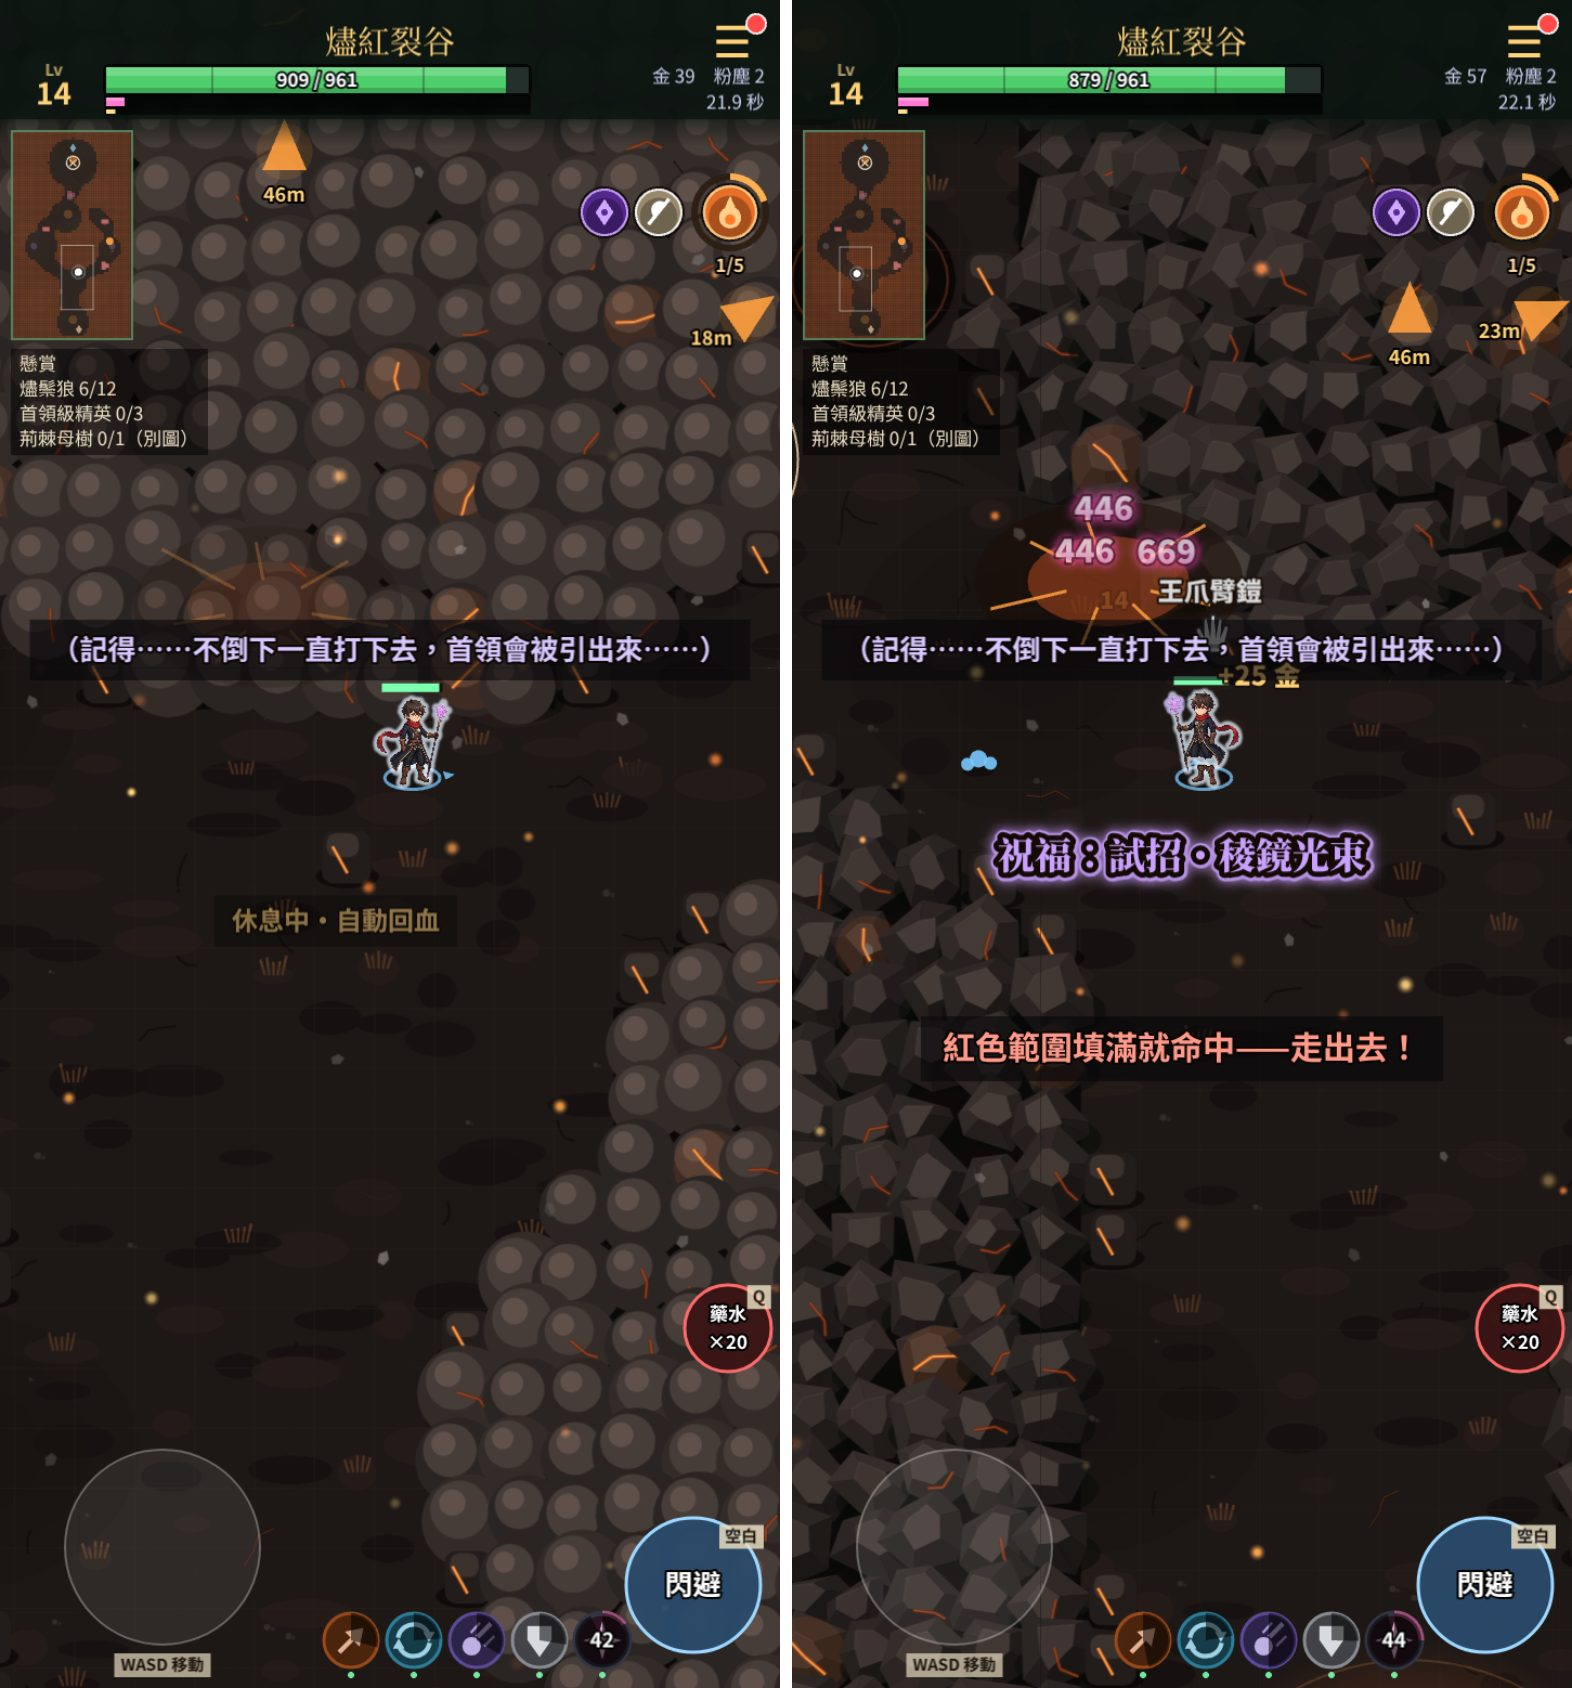
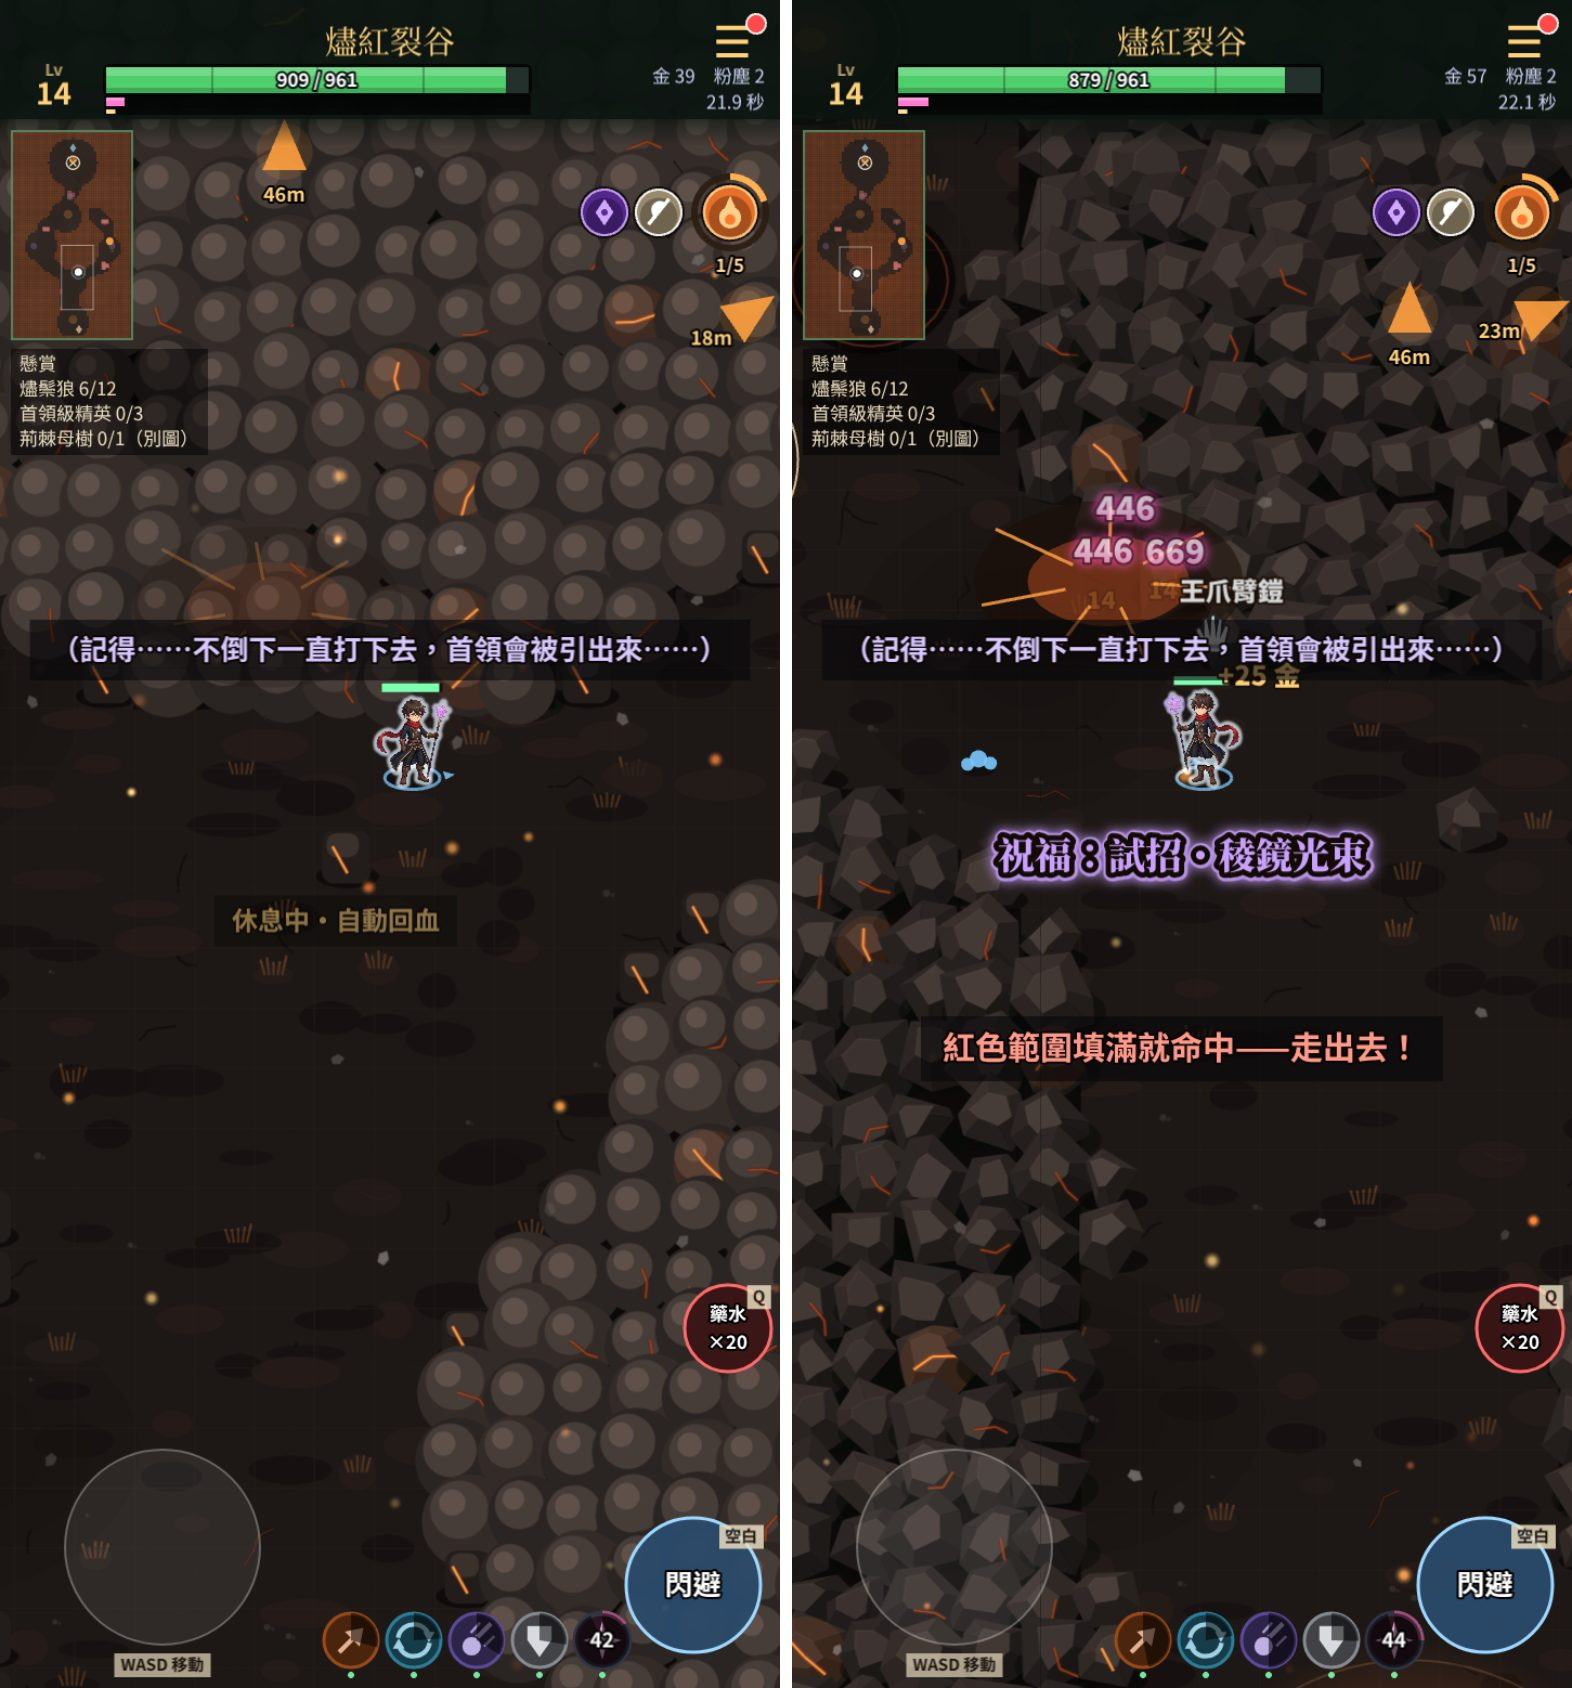
燼紅裂谷零星的岩塊也換成有稜角的岩石：以前是圓角方形＋每顆一道亮橘斜線，像一顆顆按鈕
和岩壁用同一個 emberRock；只有四成帶裂紋、其中少數是亮的。純地面材質，碰撞格沒動。對照圖更新。

Claude-Session: https://claude.ai/code/session_01DgXGTuMTgFUxpVKL6tWftS

diff --git a/src/game/rt/ground.ts b/src/game/rt/ground.ts
@@ -383,12 +383,26 @@ export function makeGround(scene: Phaser.Scene, s: BattleState, stageId: string,
           continue;
         }
         if (ember) {
-          // 燼岩的零星岩柱：黑色玄武岩＋一道熔岩裂紋（不長青苔）
-          g.fillStyle(0x050303, 0.6).fillEllipse(x + c * 0.55, y + c * 0.8, c * 1.05, c * 0.4);
-          g.fillStyle(0x221c1a, 1).fillRoundedRect(x + c * (0.06 + j), y + c * 0.04, c * (0.88 - j), c * 0.88, c * 0.2);
-          g.fillStyle(0x3a302c, 1).fillRoundedRect(x + c * (0.14 + j), y + c * 0.08, c * (0.6 - j), c * 0.4, c * 0.16);
-          g.lineStyle(4, 0xc8401a, 0.6).lineBetween(x + c * 0.3, y + c * 0.3, x + c * 0.55, y + c * 0.75);
-          g.lineStyle(2, 0xffb04a, 0.95).lineBetween(x + c * 0.3, y + c * 0.3, x + c * 0.55, y + c * 0.75);
+          // 燼岩的零星岩塊（第 196 輪改）：以前是一塊圓角方形＋每顆都有一道亮橘斜線，像一顆顆按鈕；現在和岩壁同一種有稜角的岩塊，只有一部分帶裂紋
+          const mx = x + c * 0.5;
+          const my = y + c * 0.46;
+          const r = c * (0.5 + j);
+          const rk = emberRock((i) => hr(cx, cy, 50 + i));
+          const poly = (pts: number[]): Phaser.Math.Vector2[] => {
+            const out: Phaser.Math.Vector2[] = [];
+            for (let t = 0; t < pts.length; t += 2) out.push(new Phaser.Math.Vector2(mx + pts[t]! * r, my + pts[t + 1]! * r));
+            return out;
+          };
+          g.fillStyle(0x050303, 0.6).fillEllipse(x + c * 0.56, y + c * 0.84, c * 1.15, c * 0.42);
+          for (const f of rk.sides) g.fillStyle(tone(P.crownB, f.tone), 1).fillPoints(poly(f.pts), true);
+          g.fillStyle(tone(P.crownHi, rk.top.tone + 0.08), 1).fillPoints(poly(rk.top.pts), true);
+          g.lineStyle(EMBER_ROCK.rimW, P.crownTop, EMBER_ROCK.rimA + 0.1);
+          for (const e of rk.rims) g.lineBetween(mx + e[0]! * r, my + e[1]! * r, mx + e[2]! * r, my + e[3]! * r);
+          if (hr(cx, cy, 20) < 0.4) {
+            const hot = hr(cx, cy, 20) < 0.12;
+            g.lineStyle(hot ? 4 : 3, hot ? 0xc8401a : 0x6a1e0c, 0.55).lineBetween(x + c * 0.36, y + c * 0.3, x + c * 0.56, y + c * 0.68);
+            g.lineStyle(hot ? 2 : 1.5, hot ? 0xffb04a : 0xc85a1e, hot ? 0.9 : 0.6).lineBetween(x + c * 0.36, y + c * 0.3, x + c * 0.56, y + c * 0.68);
+          }
           continue;
         }
         g.fillStyle(0x050a07, 0.55).fillEllipse(x + c * 0.55, y + c * 0.78, c * 1.05, c * 0.42);
